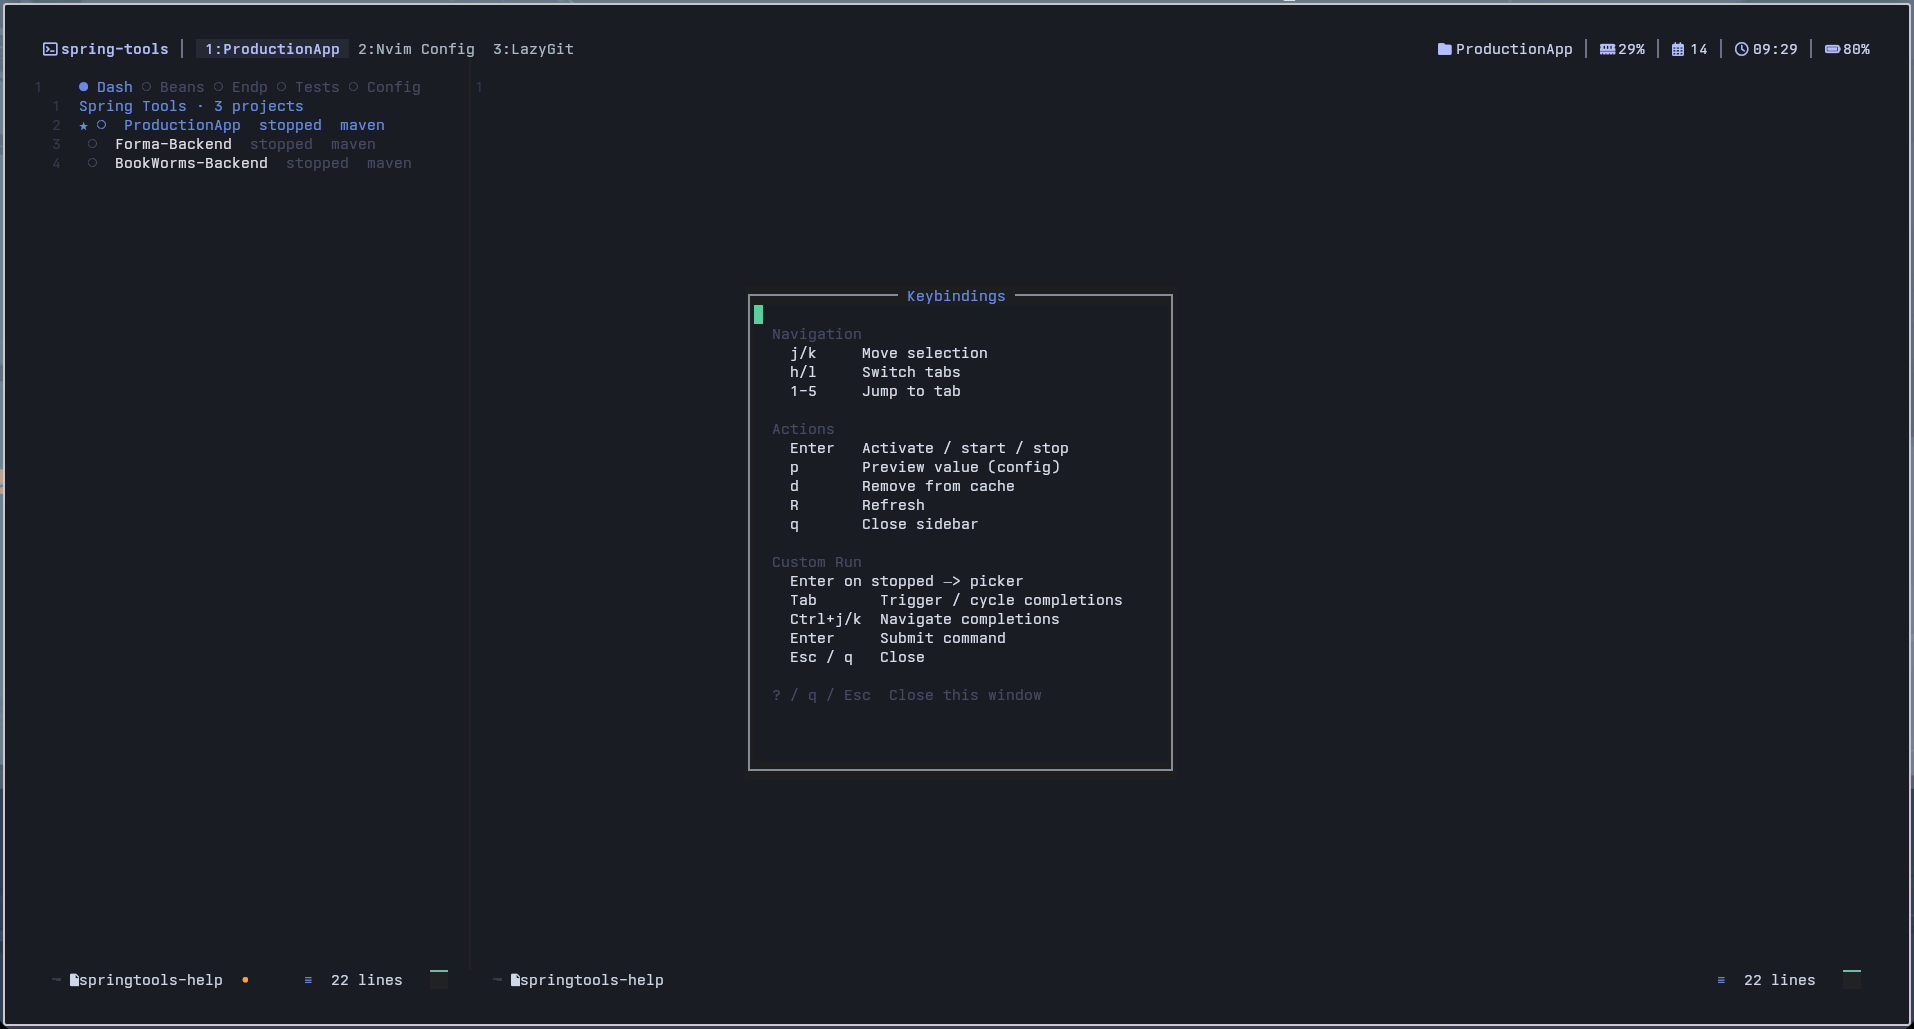
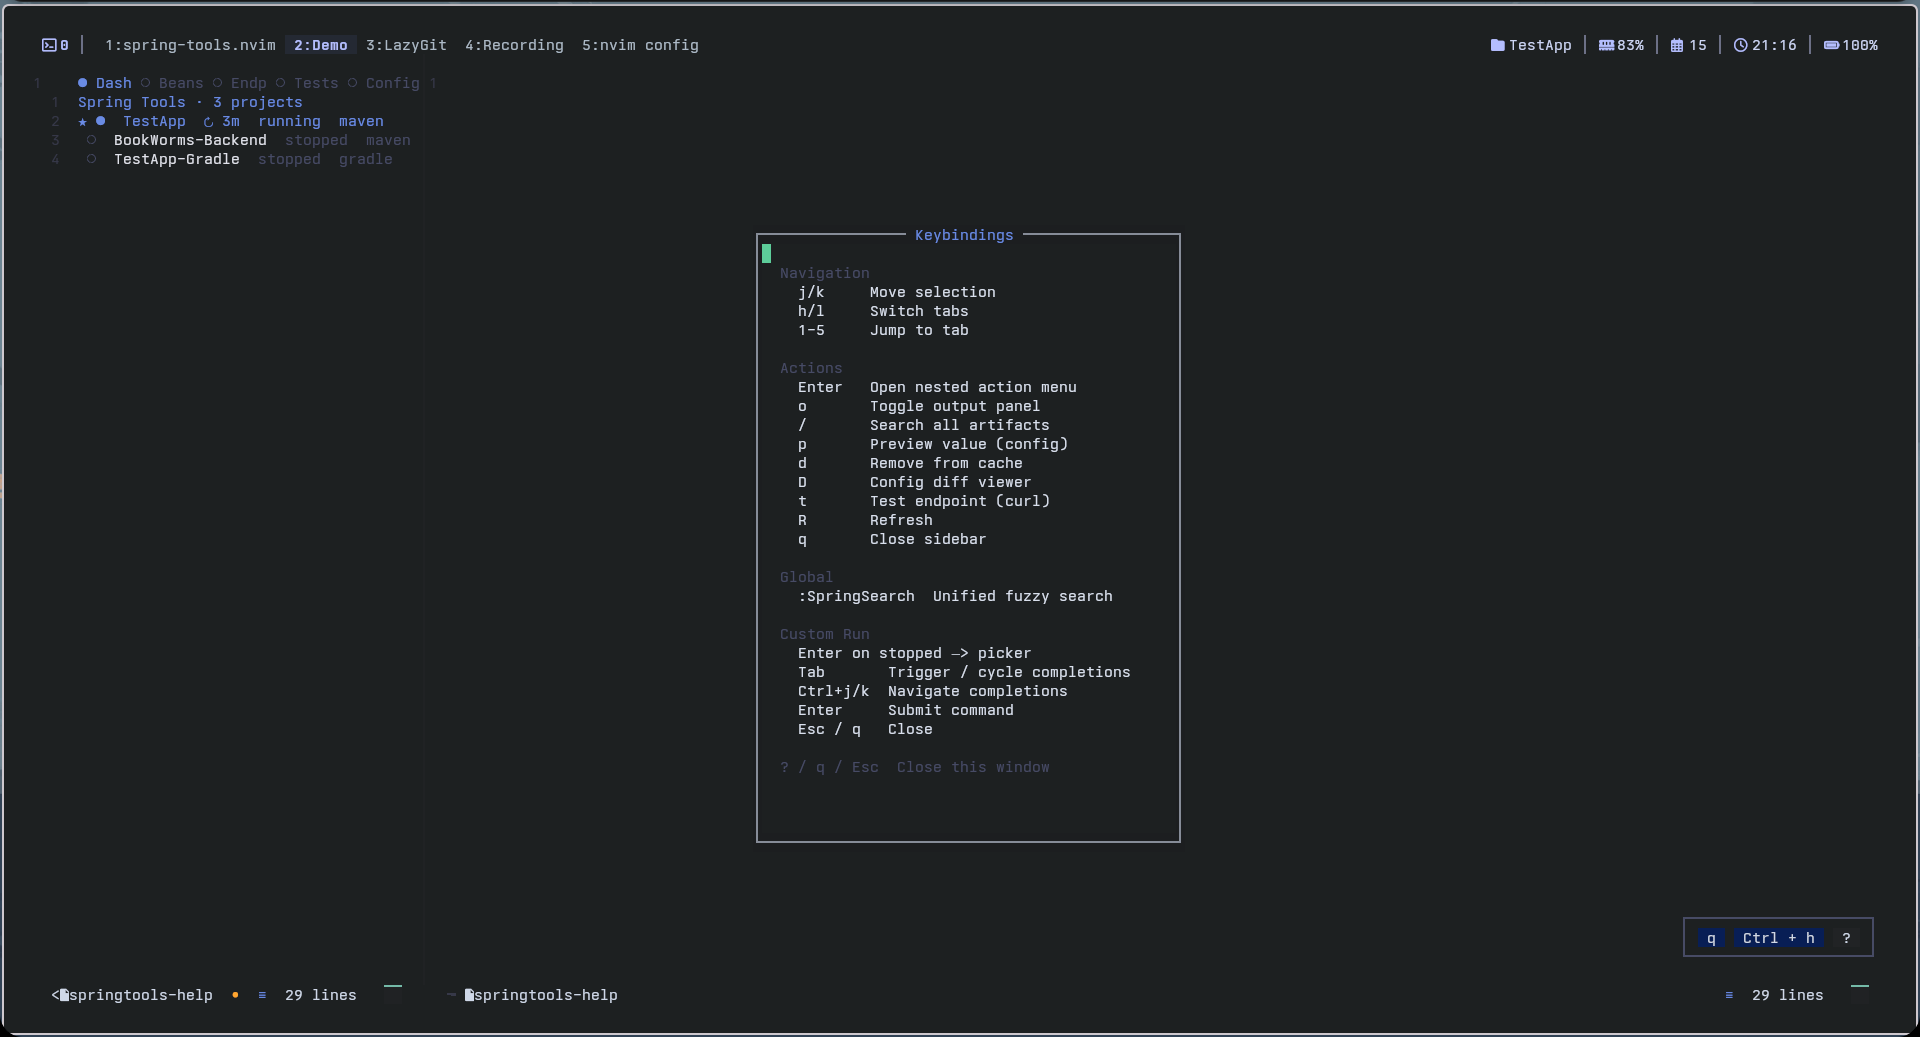
docs: add curl request screenshot, bump all PNGs to 900px, add code snippet

diff --git a/README.md b/README.md
@@ -122,6 +122,22 @@ log = {
   <img src="previews/plugin_demo_log_highlighting_2.gif" width="900" />
 </p>
 
+<h4 align="center">HTTP Client &mdash; curl requests from endpoints with JSON responses, live log streaming</h4>
+<p align="center">
+  <img src="previews/curl-request-json-filtered-logs.png" width="900" />
+</p>
+
+> **Tip**: Press `t` on an endpoint, fill path variables, add curl args with `Tab` completions. Responses open in a formatted buffer with headers, status, timing.
+
+```lua
+-- Customizable curl completions
+command_input = {
+  curl_suggestions = {
+    { word = "-H \"X-API-Key: \"", menu = "API key header" },
+  },
+}
+```
+
 <h4 align="center">Full Walkthrough &mdash; sidebar navigation, command input, output panel</h4>
 <p align="center">
   <img src="previews/plugin_demo.gif" width="900" />
@@ -129,17 +145,17 @@ log = {
 
 <h4 align="center">Keybindings Reference</h4>
 <p align="center">
-  <img src="previews/spring-tools-keybinds.png" width="650" />
+  <img src="previews/spring-tools-keybinds.png" width="900" />
 </p>
 
 <h4 align="center">Commands Reference</h4>
 <p align="center">
-  <img src="previews/spring-tools-cmds.png" width="650" />
+  <img src="previews/spring-tools-cmds.png" width="900" />
 </p>
 
 <h4 align="center">Formatted Output &mdash; compile errors, root cause extraction</h4>
 <p align="center">
-  <img src="previews/spring-tools-formatted-output.png" width="650" />
+  <img src="previews/spring-tools-formatted-output.png" width="900" />
 </p>
 
 </details>